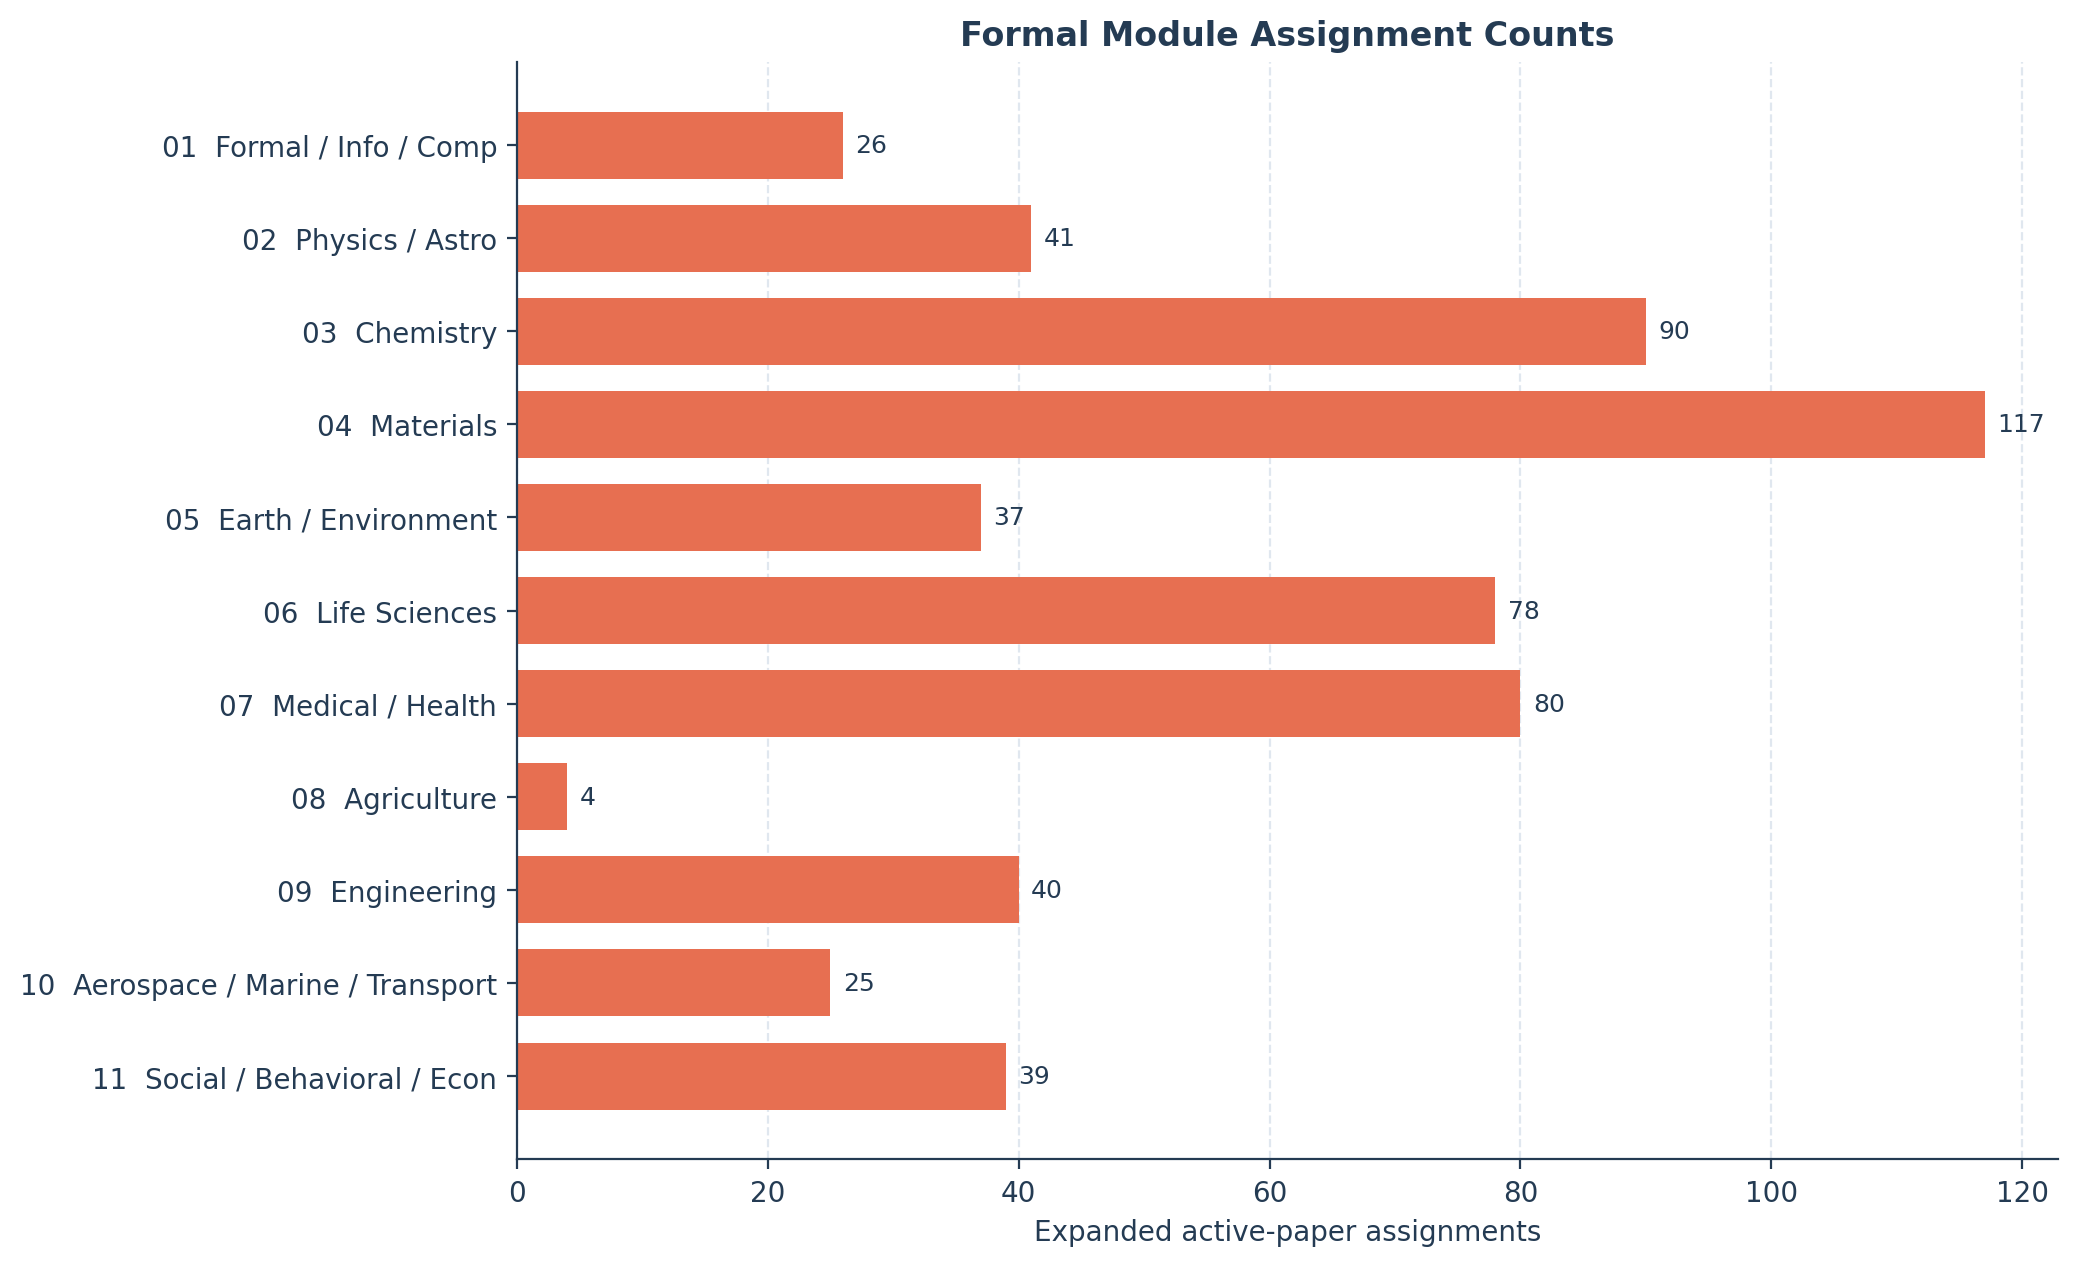
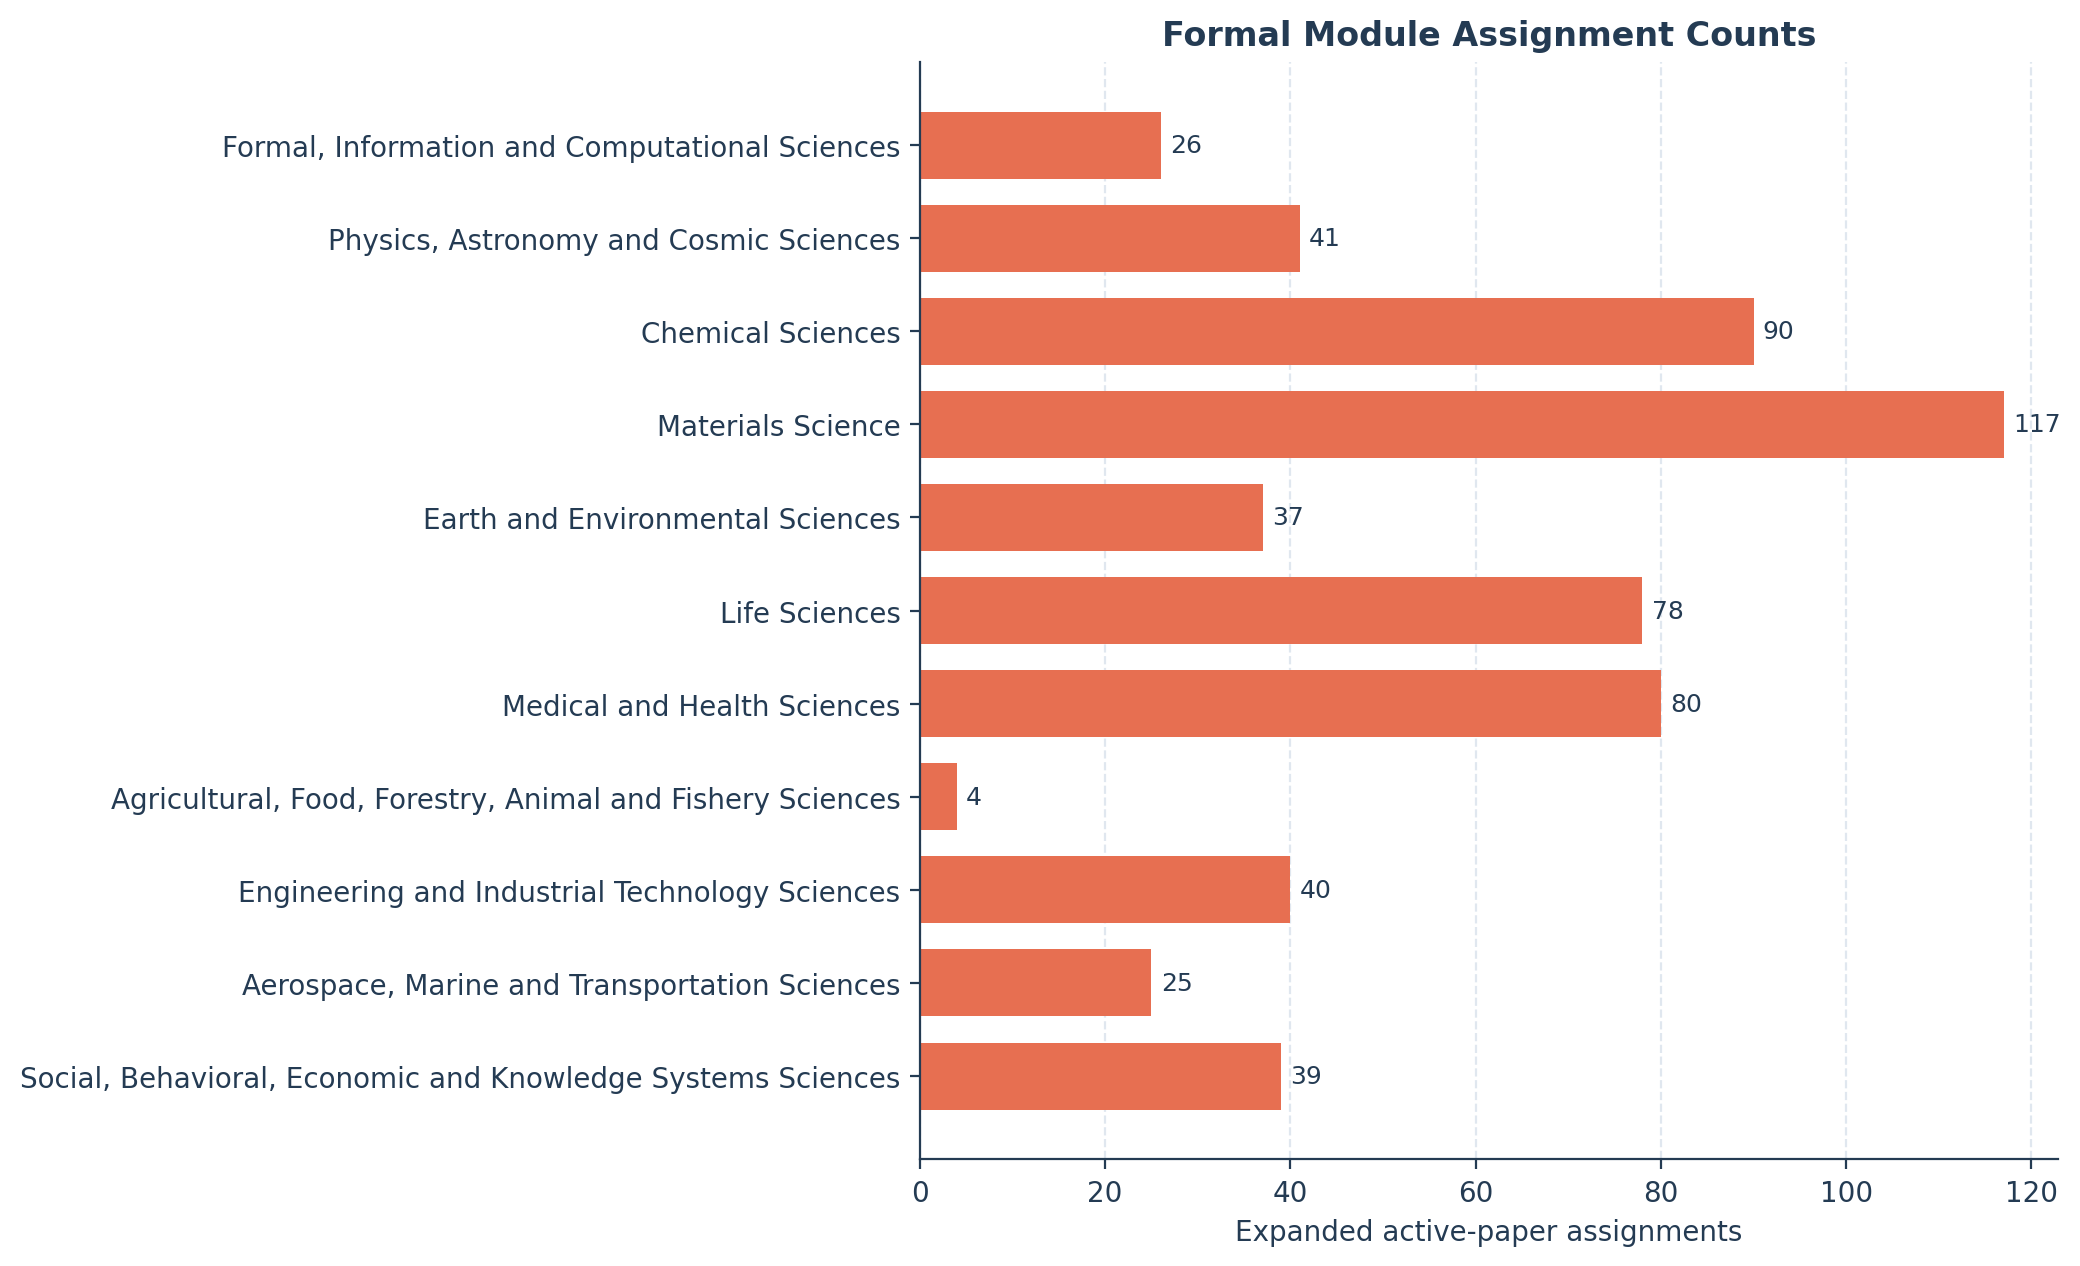
Refine multimodule chart labels and curves

diff --git a/Autonomous Scientific Discovery/scripts/generate_review_figures.py b/Autonomous Scientific Discovery/scripts/generate_review_figures.py
@@ -3,9 +3,12 @@ from __future__ import annotations
 import argparse
 import csv
 import sqlite3
+import textwrap
 from pathlib import Path
 
 import matplotlib
+import numpy as np
+from scipy.interpolate import PchipInterpolator
 
 matplotlib.use("Agg")
 import matplotlib.pyplot as plt
@@ -18,17 +21,17 @@ DEFAULT_OUTPUT_DIR = DATA_DIR / "figures" / "review_charts"
 
 MODULE_CODES = ["01", "02", "03", "04", "05", "06", "07", "08", "09", "10", "11"]
 MODULE_LABELS = {
-    "01": "01  Formal / Info / Comp",
-    "02": "02  Physics / Astro",
-    "03": "03  Chemistry",
-    "04": "04  Materials",
-    "05": "05  Earth / Environment",
-    "06": "06  Life Sciences",
-    "07": "07  Medical / Health",
-    "08": "08  Agriculture",
-    "09": "09  Engineering",
-    "10": "10  Aerospace / Marine / Transport",
-    "11": "11  Social / Behavioral / Econ",
+    "01": "Formal, Information and Computational Sciences",
+    "02": "Physics, Astronomy and Cosmic Sciences",
+    "03": "Chemical Sciences",
+    "04": "Materials Science",
+    "05": "Earth and Environmental Sciences",
+    "06": "Life Sciences",
+    "07": "Medical and Health Sciences",
+    "08": "Agricultural, Food, Forestry, Animal and Fishery Sciences",
+    "09": "Engineering and Industrial Technology Sciences",
+    "10": "Aerospace, Marine and Transportation Sciences",
+    "11": "Social, Behavioral, Economic and Knowledge Systems Sciences",
 }
 
 COLORS = {
@@ -38,6 +41,20 @@ COLORS = {
     "rust": "#e76f51",
     "slate": "#577590",
     "cloud": "#d9e2ec",
+}
+
+MODULE_LINE_COLORS = {
+    "01": "#264653",
+    "02": "#3a86ff",
+    "03": "#f4a261",
+    "04": "#e76f51",
+    "05": "#6c757d",
+    "06": "#2a9d8f",
+    "07": "#d62828",
+    "08": "#8ac926",
+    "09": "#7b2cbf",
+    "10": "#4361ee",
+    "11": "#bc6c25",
 }
 
 
@@ -93,6 +110,10 @@ def apply_chart_style() -> None:
 def fetch_rows(conn: sqlite3.Connection, sql: str, params: tuple[object, ...] = ()) -> list[sqlite3.Row]:
     conn.row_factory = sqlite3.Row
     return conn.execute(sql, params).fetchall()
+
+
+def wrap_label(label: str, width: int = 18) -> str:
+    return "\n".join(textwrap.wrap(label, width=width, break_long_words=False))
 
 
 def export_year_trend(conn: sqlite3.Connection, output_dir: Path) -> None:
@@ -179,6 +200,152 @@ def export_formal_module_bar(conn: sqlite3.Connection, output_dir: Path) -> None
     ax.invert_yaxis()
     fig.tight_layout()
     fig.savefig(output_dir / "formal_module_assignment_counts.png", bbox_inches="tight")
+    plt.close(fig)
+
+
+def export_multimodule_year_lines(conn: sqlite3.Connection, output_dir: Path) -> None:
+    min_year_row = fetch_rows(
+        conn,
+        """
+        SELECT MIN(CAST(p.year AS INTEGER)) AS start_year
+        FROM papers p
+        JOIN paper_modules pm ON pm.paper_id = p.paper_id
+        WHERE p.active_confirmed_core = 1
+          AND pm.assignment_scope = 'scientific_object_modules'
+          AND pm.module_kind = 'formal_module'
+          AND p.year GLOB '[0-9][0-9][0-9][0-9]'
+        """,
+    )
+    start_year = int(min_year_row[0]["start_year"])
+    end_year = 2026
+    years = list(range(start_year, end_year + 1))
+
+    raw_rows = fetch_rows(
+        conn,
+        """
+        SELECT
+            CAST(p.year AS INTEGER) AS year,
+            pm.module_code,
+            COUNT(DISTINCT pm.paper_id) AS paper_count
+        FROM papers p
+        JOIN paper_modules pm ON pm.paper_id = p.paper_id
+        WHERE p.active_confirmed_core = 1
+          AND pm.assignment_scope = 'scientific_object_modules'
+          AND pm.module_kind = 'formal_module'
+          AND p.year GLOB '[0-9][0-9][0-9][0-9]'
+        GROUP BY CAST(p.year AS INTEGER), pm.module_code
+        ORDER BY CAST(p.year AS INTEGER), pm.module_code
+        """,
+    )
+
+    count_map = {
+        (int(row["year"]), str(row["module_code"])): int(row["paper_count"])
+        for row in raw_rows
+    }
+    csv_rows: list[dict[str, object]] = []
+    for year in years:
+        row: dict[str, object] = {"year": year}
+        for code in MODULE_CODES:
+            value = count_map.get((year, code), 0)
+            row[code] = value
+        csv_rows.append(row)
+
+    write_csv(
+        output_dir / "multimodule_year_trend_by_module.csv",
+        ["year", *MODULE_CODES],
+        csv_rows,
+    )
+
+    fig, ax = plt.subplots(figsize=(13.2, 7.2))
+    for code in MODULE_CODES:
+        series = np.array([int(row[code]) for row in csv_rows], dtype=float)
+        x = np.array(years, dtype=float)
+        x_dense = np.linspace(x.min(), x.max(), 400)
+        curve = PchipInterpolator(x, series)(x_dense)
+        ax.plot(
+            x_dense,
+            curve,
+            linewidth=2.0,
+            color=MODULE_LINE_COLORS[code],
+            label=MODULE_LABELS[code],
+        )
+        ax.plot(
+            x,
+            series,
+            linestyle="None",
+            marker="o",
+            markersize=3.2,
+            color=MODULE_LINE_COLORS[code],
+        )
+    ax.set_title("Multi-Module Formal Module Year Trend")
+    ax.set_xlabel("Year")
+    ax.set_ylabel("Expanded paper count")
+    ax.set_xlim(start_year, end_year)
+    ax.set_xticks(years)
+    ax.tick_params(axis="x", rotation=45)
+    ax.grid(axis="y", linestyle="--", alpha=0.8)
+    ax.legend(
+        title="Primary-level class",
+        ncol=2,
+        frameon=False,
+        loc="upper left",
+        bbox_to_anchor=(0.0, 1.02),
+        fontsize=9,
+        title_fontsize=10,
+    )
+    fig.tight_layout()
+    fig.savefig(output_dir / "multimodule_year_trend_by_module.png", bbox_inches="tight")
+    plt.close(fig)
+
+
+def export_multimodule_module_bar(conn: sqlite3.Connection, output_dir: Path) -> None:
+    rows = fetch_rows(
+        conn,
+        """
+        SELECT
+            pm.module_code,
+            COUNT(DISTINCT pm.paper_id) AS paper_count
+        FROM papers p
+        JOIN paper_modules pm ON pm.paper_id = p.paper_id
+        WHERE p.active_confirmed_core = 1
+          AND pm.assignment_scope = 'scientific_object_modules'
+          AND pm.module_kind = 'formal_module'
+        GROUP BY pm.module_code
+        ORDER BY pm.module_code
+        """,
+    )
+
+    csv_rows = [
+        {
+            "module_code": str(row["module_code"]),
+            "paper_count": int(row["paper_count"]),
+            "module_label": MODULE_LABELS[str(row["module_code"])],
+        }
+        for row in rows
+    ]
+    write_csv(
+        output_dir / "multimodule_module_counts_bar.csv",
+        ["module_code", "module_label", "paper_count"],
+        csv_rows,
+    )
+
+    codes = [row["module_code"] for row in csv_rows]
+    values = [row["paper_count"] for row in csv_rows]
+    labels = [wrap_label(MODULE_LABELS[code], width=14) for code in codes]
+    colors = [MODULE_LINE_COLORS[code] for code in codes]
+
+    fig, ax = plt.subplots(figsize=(14.8, 7.2))
+    bars = ax.bar(labels, values, color=colors, width=0.72)
+    ax.set_title("Multi-Module Formal Module Counts")
+    ax.set_xlabel("Primary-level class")
+    ax.set_ylabel("Expanded paper count")
+    ax.grid(axis="y", linestyle="--", alpha=0.8)
+    ax.set_axisbelow(True)
+    ax.tick_params(axis="x", rotation=18)
+    for bar, value in zip(bars, values):
+        ax.text(bar.get_x() + bar.get_width() / 2, value + 1, str(value), ha="center", va="bottom", fontsize=9)
+    fig.tight_layout()
+    fig.savefig(output_dir / "multimodule_module_counts_bar.png", bbox_inches="tight")
     plt.close(fig)
 
 
@@ -272,6 +439,8 @@ def main() -> None:
     with sqlite3.connect(args.db) as conn:
         export_year_trend(conn, args.output_dir)
         export_formal_module_bar(conn, args.output_dir)
+        export_multimodule_year_lines(conn, args.output_dir)
+        export_multimodule_module_bar(conn, args.output_dir)
         export_primary_filing_bar(conn, args.output_dir)
         export_pdf_coverage_bar(conn, args.output_dir)
     print(f"Generated review charts in {args.output_dir}")